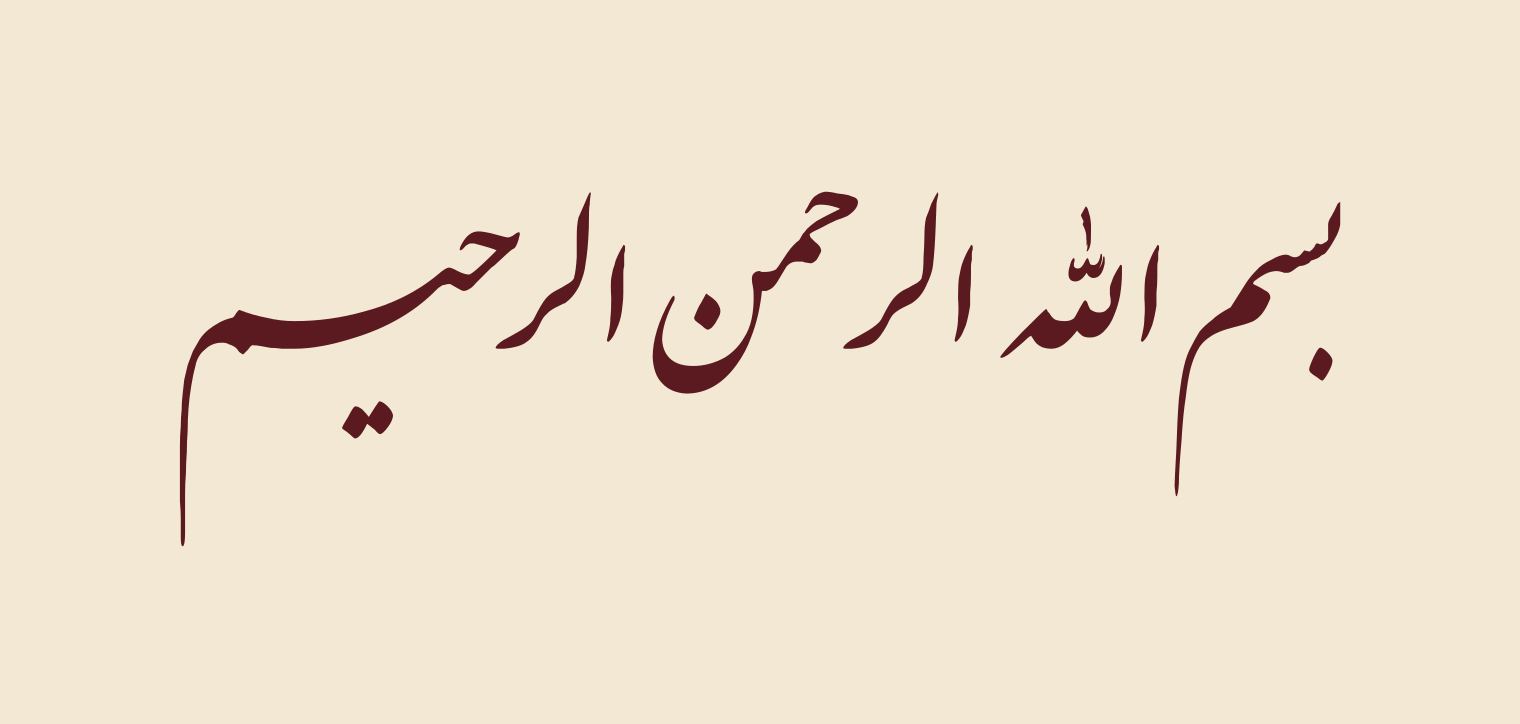
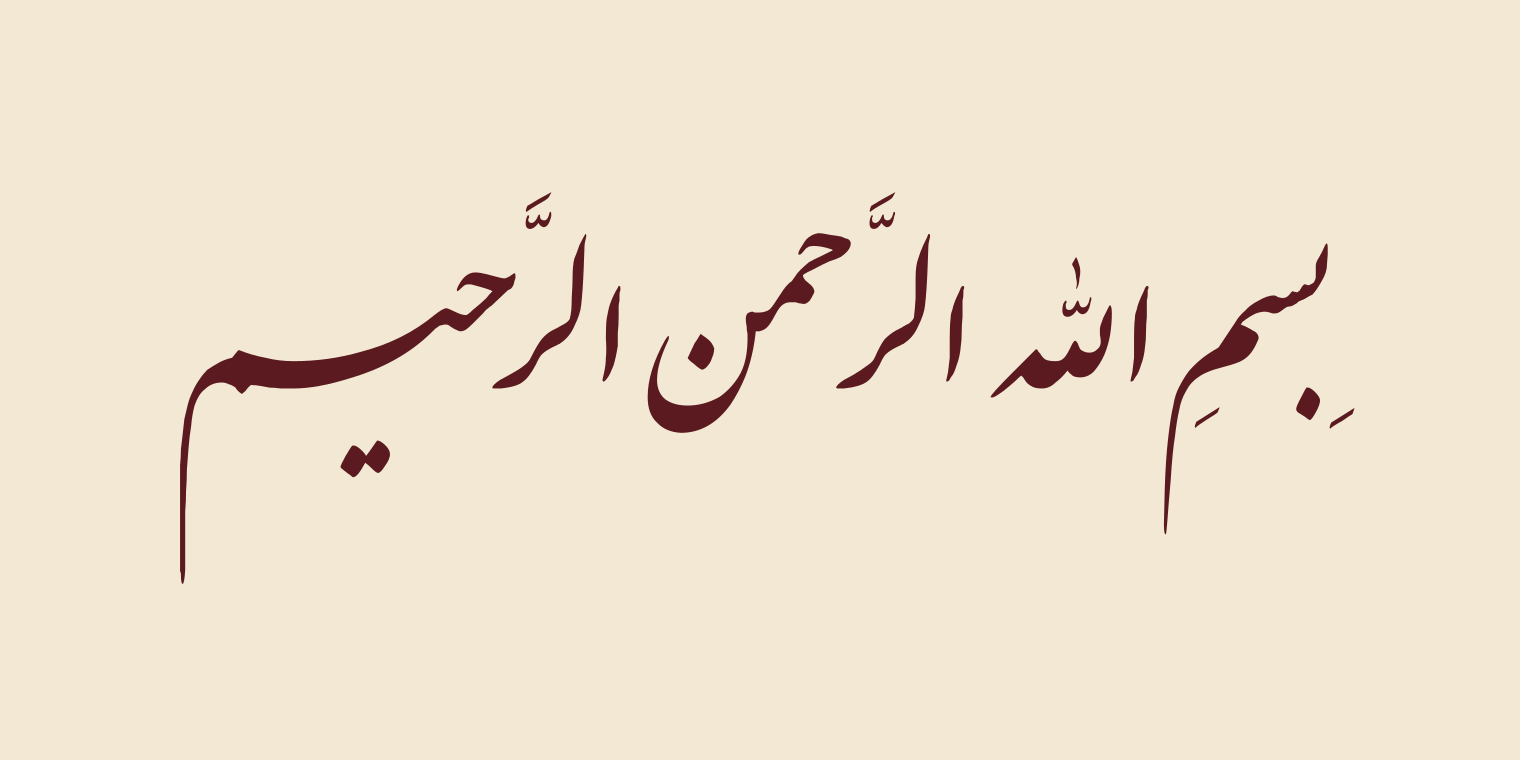
Tashkil through the page pass; light-tashkil Bismillah sample
- Tashkil (GDEF mark glyphs, and the shadda/small alif inside the
  الله ligature) drawn at 80% and settled in the end-of-page pass:
  checked against all ink including their own letter, moved as a
  unit, free to step sideways past long م/ن tails. Dots now treat
  tashkil as ink.
- IranNastaliq: write الله plain; typing اللّٰه doubled the shadda.
- Bismillah sample: بِسمِ الله الرَّحمن الرَّحیم (small alif of رحمن
  omitted: the font anchors it low inside the ح–م join).
- Other samples unchanged (pixel-identical).

Changed region(s): [[0.1237, 0.2431, 0.8967, 0.6685], [0.2164, 0.547, 0.2783, 0.6381], [0.8349, 0.4862, 0.8967, 0.547]]

diff --git a/scripts/render.py b/scripts/render.py
@@ -12,6 +12,7 @@ See SKILL.md for the rules this implements.
 """
 import argparse
 import math
+import re
 import signal
 import sys
 from functools import lru_cache
@@ -47,7 +48,8 @@ SAD_FAMILY = set('صض')                      # stretch cleanly into any run end
 STRETCHABLE = set('بپتثنیئفقکگ')            # stretchable only into a word's final letter
 HARAKAT = set(chr(c) for c in range(0x064B, 0x0660)) | {'ٰ'}
 
-W, H, BY = 5000, 800, 480                   # mask canvas (px) and its baseline
+W, H, BY = 5000, 800, 480
+TASHKIL_SCALE = 0.8                         # harakat in a finer pen than the letters                   # mask canvas (px) and its baseline
 
 COLORS = dict(paper='#f3e8d3', ink='#5a1a1f', name='#6e2a2a',
               dpaper='#241a16', dink='#ecd3b2', dname='#d9b48a')
@@ -288,6 +290,8 @@ class Outliner:
         self.order = self.tt.getGlyphOrder()
         self.upem = self.tt['head'].unitsPerEm
         self.feats = {f: True for f in feats}
+        gdef = self.tt['GDEF'].table.GlyphClassDef.classDefs if 'GDEF' in self.tt else {}
+        self.marks = {g for g, c in gdef.items() if c == 3}
 
     def contours(self, placed, px):
         """Every contour of a packed line in font units (y up), components decomposed."""
@@ -304,7 +308,8 @@ class Outliner:
             span = {c: word[c:starts[k + 1]] for k, c in enumerate(starts[:-1])}
             for info, pos in zip(buf.glyph_infos, buf.glyph_positions):
                 rec = DecomposingRecordingPen(self.gs)
-                self.gs[self.order[info.codepoint]].draw(
+                gname = self.order[info.codepoint]
+                self.gs[gname].draw(
                     TransformPen(rec, (1, 0, 0, 1, x + pos.x_offset, y0 + pos.y_offset)))
                 cur = []
                 for op, args in rec.value:
@@ -313,12 +318,20 @@ class Outliner:
                         r = RecordingPen(); r.value = cur; fp = FlatPen(); r.replay(fp); cur = []
                         if fp.polys:
                             items.append(dict(cmds=r.value, poly=Polygon(fp.polys[0]).buffer(0), g=g,
-                                              ch=word[info.cluster], chars=span[info.cluster], word=word, dx=0.0, dy=0.0))
+                                              ch=word[info.cluster], chars=span[info.cluster], word=word,
+                                              mark=gname in self.marks, lig=gname.lower().startswith('lellah'),
+                                              dx=0.0, dy=0.0, sc=1.0, ox=0.0, oy=0.0))
                 g += 1
                 x += pos.x_advance
         for it in items:   # a contour inside a bigger contour of the same glyph is a counter
             it['hole'] = any(o is not it and o['g'] == it['g'] and o['poly'].area > it['poly'].area
                              and o['poly'].contains(it['poly']) for o in items)
+        # tashkil: every contour of a mark glyph, plus the shadda and small alif that the
+        # الله ligature draws inside itself (all its pieces except the body)
+        for it in items:
+            if it['lig'] and not it['hole']:
+                body = max((o for o in items if o['g'] == it['g']), key=lambda o: o['poly'].area)
+                it['mark'] = it is not body
         return items
 
     def reference_dot(self, sample="بنیت تبنی نبتی یبنت بیت نیب"):
@@ -363,6 +376,8 @@ def has_counter(it, items):
 
 def movable(it, glyph, A, Wd, Hd):
     """'dot', 'mark' or None for one contour. glyph = the other contours of its glyph."""
+    if it['mark']:
+        return None                     # tashkil are settled as their own units
     if it['hole'] or not glyph or any(p.distance(it['poly']) == 0 for p in glyph):
         return None                     # touches its own letter: part of the letter
     if is_dot_group(it['poly'], A, Wd, Hd):
@@ -404,6 +419,9 @@ def settle(page, A, Wd, Hd, passes=4, margin=1.4):
         byg.setdefault(i['g'], []).append(i)
     units = {}                                   # (glyph, kind) -> contours moved together
     for it in ink:
+        if it['mark']:
+            units.setdefault((it['g'], 'tashkil'), []).append((it, 'tashkil'))
+            continue
         glyph = [o['poly'] for o in byg[it['g']] if o is not it]
         kind = movable(it, glyph, A, Wd, Hd)
         if kind:
@@ -414,16 +432,52 @@ def settle(page, A, Wd, Hd, passes=4, margin=1.4):
         body = [o['poly'] for o in byg[key[0]] if all(o is not m for m in parts)]
         if body:
             cands.append((parts, members[0][1], unary_union(body)))
+        elif members[0][1] == 'tashkil':   # a mark glyph: no body of its own
+            cands.append((parts, 'tashkil', None))
     union = lambda parts: unary_union([m['poly'] for m in parts])
+    solid = lambda o: o['poly'].area >= 0.8 * A or o['mark']     # ink a dot must clear
+    tclear = 0.4 * Hd                                            # tashkil to any other ink
     moved = {}
     for _ in range(passes):
         changed = False
         for parts, kind, ownu in cands:
             g = parts[0]['g']
-            others = unary_union([o['poly'] for o in ink if o['g'] != g and o['poly'].area >= 0.8 * A])
+            cur = union(parts)
+            if kind == 'tashkil':
+                # clear of all other ink, its own letter included (it is a separate glyph,
+                # or, in الله, a separate piece the font happens to draw close)
+                others = unary_union([o['poly'] for o in ink if all(o is not m for m in parts)
+                                      and (o['poly'].area >= 0.15 * A or o['mark'])])
+                if others.is_empty or others.distance(cur) >= tclear:
+                    continue
+                from shapely.ops import nearest_points
+                pa, pb = nearest_points(others, cur)
+                base = math.degrees(math.atan2(pb.y - pa.y, pb.x - pa.x)) if pa.distance(pb) > 1e-6 \
+                    else (90 if cur.centroid.y > others.centroid.y else -90)
+                best = None
+                # nearest-free direction first, then the rest of the circle (a kasra under a
+                # final م must step past the م's long tail, sideways)
+                for da in [0, 15, -15, 30, -30, 45, -45, 60, -60, 75, -75, 90, -90,
+                           105, -105, 120, -120, 135, -135, 150, -150, 165, -165, 180]:
+                    a = math.radians(base + da); ux, uy = math.cos(a), math.sin(a)
+                    r = 10
+                    while r <= 2.5 * Hd and (best is None or r < best[0]):
+                        if abs(ux * r) <= 1.5 * Wd:
+                            q = affinity.translate(cur, ux * r, uy * r)
+                            if others.distance(q) >= tclear * margin:
+                                best = (r, ux * r, uy * r)
+                                break
+                        r += 10
+                if best is not None:
+                    for m in parts:
+                        m['dx'] += best[1]; m['dy'] += best[2]
+                        m['poly'] = affinity.translate(m['poly'], best[1], best[2])
+                    moved[id(parts[0])] = (kind, ''.join(c for c in parts[0]['chars'] if c in HARAKAT) or parts[0]['ch'],
+                                           parts[0]['word']); changed = True
+                continue
+            others = unary_union([o['poly'] for o in ink if o['g'] != g and solid(o)])
             if others.is_empty:
                 continue
-            cur = union(parts)
             if others.distance(cur) >= clear:
                 continue
             best = None
@@ -461,10 +515,32 @@ def settle(page, A, Wd, Hd, passes=4, margin=1.4):
     unresolved = []
     for parts, kind, ownu in cands:
         g = parts[0]['g']
-        others = unary_union([o['poly'] for o in ink if o['g'] != g and o['poly'].area >= 0.8 * A])
-        if not others.is_empty and others.distance(union(parts)) < clear:
+        if kind == 'tashkil':
+            others = unary_union([o['poly'] for o in ink if all(o is not m for m in parts)
+                                  and (o['poly'].area >= 0.15 * A or o['mark'])])
+            lim = tclear
+        else:
+            others = unary_union([o['poly'] for o in ink if o['g'] != g and solid(o)]); lim = clear
+        if not others.is_empty and others.distance(union(parts)) < lim:
             unresolved.append((kind, parts[0]['ch'], parts[0]['word']))
     return list(moved.values()), unresolved
+
+
+def shrink_tashkil(items, scale):
+    """Draw tashkil a little smaller than the font does, each mark unit (one mark glyph,
+    e.g. a shadda with its vowel) about its own centre: calligraphers write harakat with
+    a finer pen than the letters."""
+    if scale == 1:
+        return
+    units = {}
+    for it in items:
+        if it['mark']:
+            units.setdefault(it['g'], []).append(it)
+    for parts in units.values():
+        c = unary_union([m['poly'] for m in parts]).centroid
+        for m in parts:
+            m['sc'], m['ox'], m['oy'] = scale, c.x, c.y
+            m['poly'] = affinity.scale(m['poly'], scale, scale, origin=(c.x, c.y))
 
 
 def line_svg(items):
@@ -478,7 +554,8 @@ def line_svg(items):
     for it in items:
         pen = pens.setdefault(it['g'], SVGPathPen(None, ntos=lambda v: str(round(v / 10))))
         r = RecordingPen(); r.value = it['cmds']
-        r.replay(TransformPen(pen, (1, 0, 0, -1, it['dx'], -it['dy'])))
+        sc, ox, oy = it['sc'], it['ox'], it['oy']
+        r.replay(TransformPen(pen, (sc, 0, 0, -sc, (1 - sc) * ox + it['dx'], -((1 - sc) * oy + it['dy']))))
     ink = unary_union([i['poly'] for i in items if not i['hole']])
     x0, y0, x1, y1 = ink.bounds
     flipped = affinity.scale(ink, 1, -1, origin=(0, 0))
@@ -499,6 +576,13 @@ def build(style, lines, author=None, rise='strong', cswh=True, keshideh=True,
     A, Wd, Hd = out.reference_dot()
     report = []
     lines = [' '.join(t.split()) for t in lines]
+    if style == 'nastaliq':
+        # IranNastaliq's الله ligature draws its own shadda and small alif; typing them too
+        # stacks a second set on top (a heavy, doubled shadda)
+        fixed = [re.sub('(?<![\u0600-\u06ff])الل[\u064b-\u065f\u0670]+ه', 'الله', t) for t in lines]
+        if fixed != lines:
+            report.append('الله: written plain; the font\'s ligature already carries the shadda and small alif')
+        lines = fixed
     r, start = RISE[rise] if style == 'shekasteh' else (0, 0)
     r = round(r * px / 64)
 
@@ -516,6 +600,7 @@ def build(style, lines, author=None, rise='strong', cswh=True, keshideh=True,
     built, line_items = [], []
     for t, g in zip(lines, gaps):
         items = out.contours(pack_line(mask, t, g, rise=r, start=start), px)
+        shrink_tashkil(items, TASHKIL_SCALE)
         line_items.append(items)
         built.append(line_svg(items))
 

diff --git a/SKILL.md b/SKILL.md
@@ -33,7 +33,9 @@ Both styles use the same design, a **bare manuscript sheet**: warm paper (#f3e8d
 - Classical poems have variant readings across editions. Use the best-known reading, say which edition or reading you used, and name the main alternative in one line. Don't invent a word you're unsure of.
 - A bayt has two misra', staggered: the first right-aligned, the second left-aligned. A phrase that isn't a bayt (a Bismillah, a saying, a name) is one centred line. Longer prose or scripture can be split into clauses (at a ؛, a comma, or a verse's natural pause points) and use the same staggered layout over as many lines as needed. Only real bayt poetry needs equal line lengths (`--no-equalize` otherwise).
 - Keep the ZWNJ (نیمفاصله, U+200C) in words like میکند and دلها. It is correct orthography, and those letters don't join.
-- Vowel marks (tashkil): none by default, since they crowd the strokes, especially in Shekasteh. On Arabic phrases, or when the user asks, prefer **light marks**: shaddas and the small alif of اللّٰه. Offer full tashkil as an option. Fonts sometimes place a mark far above a tall fused shape; offer the plain-fatha spelling as the alternative, and never place marks by hand.
+- Vowel marks (tashkil): none by default, since they crowd the strokes, especially in Shekasteh. On Arabic phrases, or when the user asks, prefer **light marks**, enough to fill the empty space around the line without crowding: kasra under the first letters, shadda+fatha on doubled letters, e.g. بِسمِ الله الرَّحمن الرَّحیم. End-of-word case vowels and sukuns (levels beyond that) crowd the long م/ن tails; offer them as an option, with a numbered comparison.
+- **الله with IranNastaliq: type it plain.** The font's الله ligature already draws the shadda and small alif; typing اللّٰه stacks a second set on top (a heavy, doubled shadda). The script normalises this and says so.
+- **Check where the font anchors each mark.** IranNastaliq hangs the small alif of رحمٰن low inside the ح–م join, where it reads as a stray mark; leave it out (Persian spelling usually does). Never place marks by hand; drop a mark the font can't place well, and say so.
 - Say in the reply when the text is Arabic. For scripture, check the wording against a primary source before laying it out; getting a sacred text wrong is worse than getting a poem wrong.
 
 ## 2. Fonts
@@ -117,6 +119,7 @@ Both fonts draw dots and marks (madda, hamza) inside each letter's glyph, so a n
 - **Stay home.** A moved dot or mark must stay horizontally over its own letter and get no further from it than it started. Otherwise it changes the word: a ن dot pushed over the next د makes گوهرند read «گوهرنز». Don't require it to be nearer its own letter than to any other: Nastaliq hangs the ی's dots far below its tooth, right on a following ر (آفرینش), and they must still be movable.
 - **Trigger:** closer than half a dot's height to *another* letter's ink (slivers under 0.8 dot are ignored). Distance to its own letter is the designer's choice.
 - **Move** until 1.4 × that clearance away. Dots search the whole circle, starting with the side away from their own letter, and move at most ~1.3 dot heights. Marks search ~3 dot heights, stay near their letter and keep at least 0.3 dot heights from it.
+- **Tashkil go through the same pass.** The font's mark glyphs (GDEF class 3), and the shadda and small alif inside the الله ligature, are drawn at 80% (`TASHKIL_SCALE`; harakat in a finer pen than the letters) and then checked against all ink, *their own letter included*, since they are separate glyphs. One mark glyph (a shadda with its vowel) moves as a unit, away from the nearest ink first, then around the circle: a kasra under a final م has to step sideways past the long tail. Dots treat tashkil as ink to clear.
 - **Move a letter's dots together.** All dots of one letter move as one group and keep their arrangement. Dima draws each dot of ش or ی as its own piece; moving them one by one merges them into a blob.
 - **Never make it worse.** If no move clears it while staying with its letter, leave it where it is; the script reports it as `STILL CROWDED` so you can mention it.
 

diff --git a/README.md b/README.md
@@ -19,7 +19,8 @@ engine leaves out:
 - **Fused letter pairs** in Shekasteh (`cswh`), e.g. شک and حک.
 - **Collision fixing**: after the page is laid out, one pass checks every dot, madda and hamza against
   all ink on the page and moves only the ones that collide, just far enough to clear it (a letter's
-  dots move together). Anything it can't clear cleanly is reported, not forced.
+  dots move together). Tashkil go through the same pass, drawn in a slightly finer size and kept
+  clear of all ink. Anything it can't clear cleanly is reported, not forced.
 - **Bayt layout**: staggered misra', a half-size signature (raqam), and light/dark themes in one SVG.
 
 ## Samples
@@ -27,7 +28,7 @@ engine leaves out:
 | | |
 |---|---|
 | **Saadi, Nastaliq** — keshideh on اعضـای<br><img src="samples/saadi-nastaliq.png" alt="Saadi Nastaliq"> | **Saadi, Nastaliq, dark mode**<br><img src="samples/saadi-nastaliq-dark.png" alt="Saadi Nastaliq dark"> |
-| **Rumi, Shekasteh, dark mode**<br><img src="samples/rumi-shekasteh-dark.png" alt="Rumi Shekasteh dark"> | **Bismillah, single centred line** — keshideh on الرحیـم<br><img src="samples/bismillah-nastaliq.png" alt="Bismillah Nastaliq"> |
+| **Rumi, Shekasteh, dark mode**<br><img src="samples/rumi-shekasteh-dark.png" alt="Rumi Shekasteh dark"> | **Bismillah, light tashkil** — بِسمِ الله الرَّحمن الرَّحیم<br><img src="samples/bismillah-nastaliq.png" alt="Bismillah Nastaliq"> |
 
 The SVG source of each sample is in [`samples/`](samples/).
 
